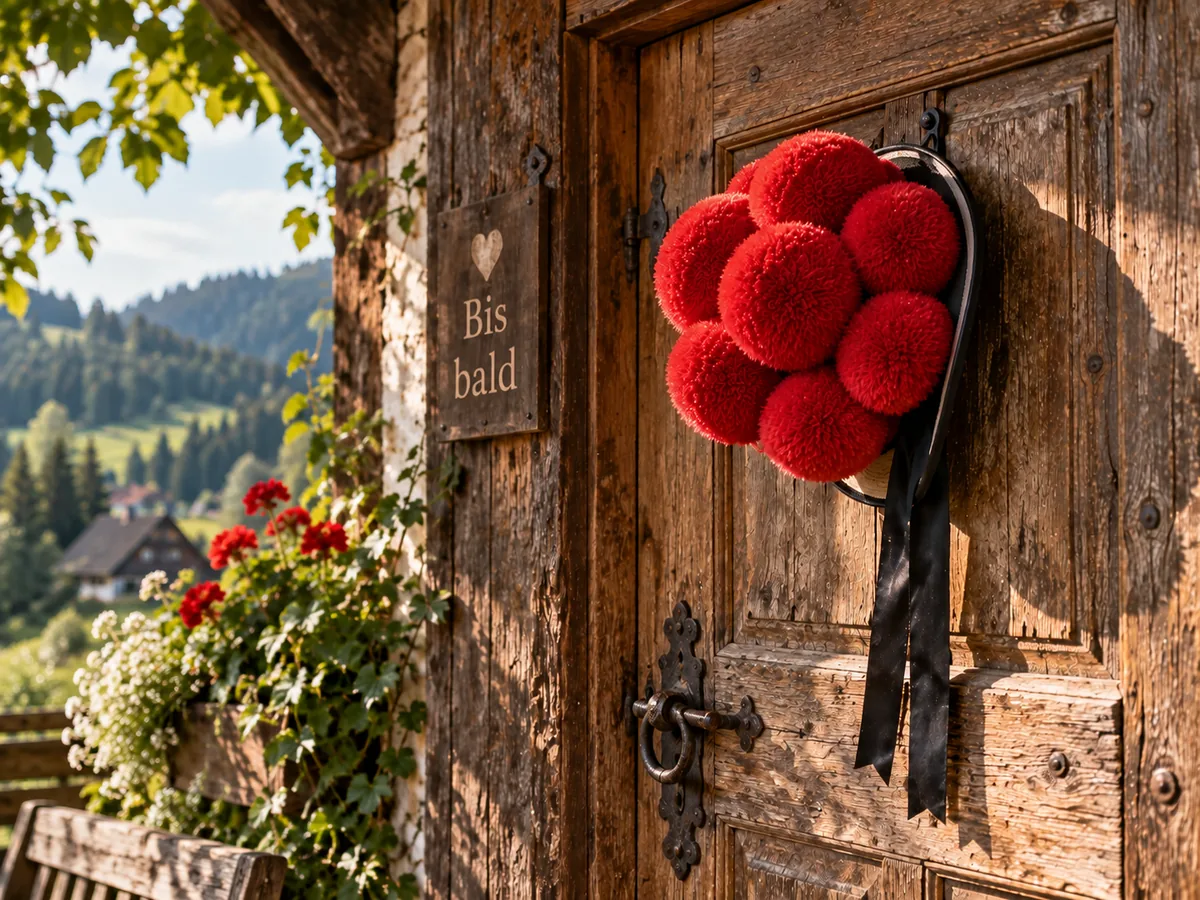
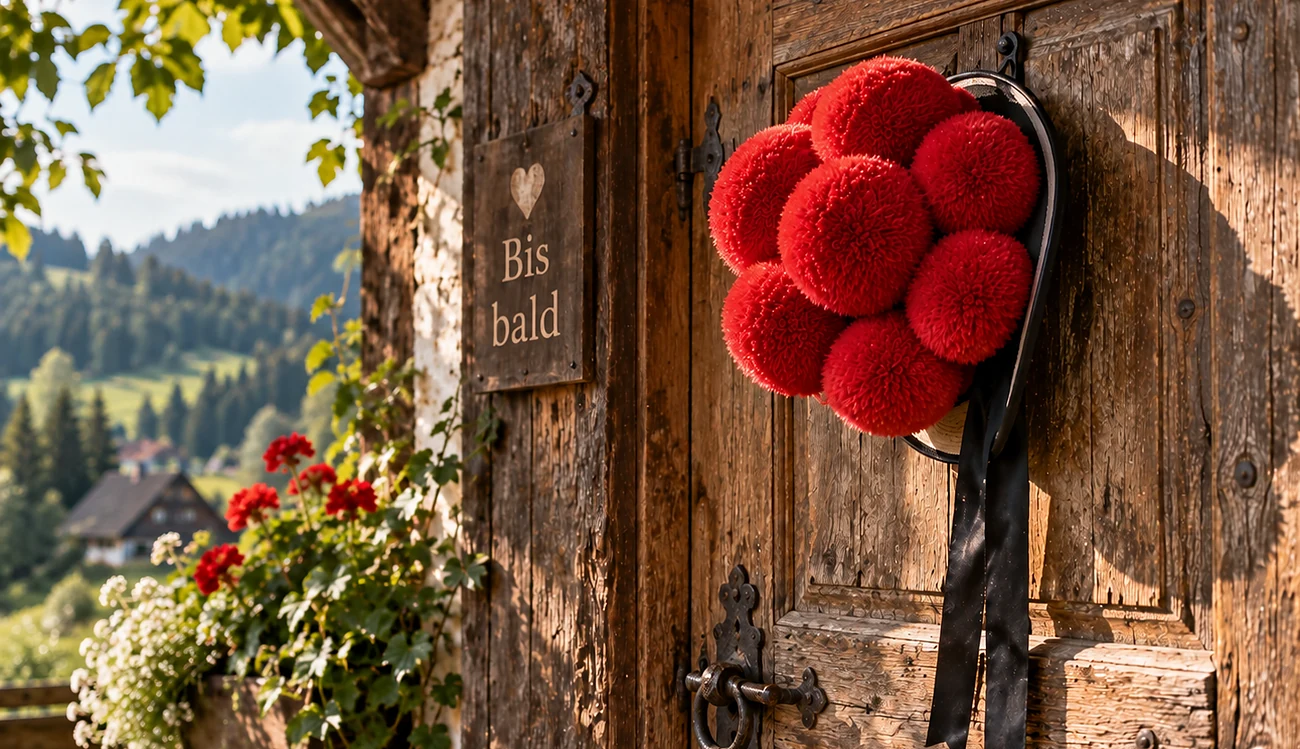
Add files via upload

diff --git a/alltag-praxisurlaub-september.html b/alltag-praxisurlaub-september.html
@@ -163,7 +163,7 @@ a.pp:hover{color:#8F7440 !important}
 
     <p style="margin:0;font-size:16px;line-height:1.85;color:#4B5875">Streng genommen stammt der Bollenhut nicht aus Bonndorf, sondern aus einigen Orten rund um Gutach. Trotzdem ist er l&auml;ngst zu einem der bekanntesten Symbole des Schwarzwalds geworden. F&uuml;r unsere kleine Pause haben wir ihn uns deshalb ausgeliehen und an die T&uuml;r geh&auml;ngt. Und das Schild daneben sagt eigentlich schon alles: Bis bald.</p>
 
-    <div style="position:relative;width:100%;height:0;border-radius:14px;overflow:hidden;box-shadow:0 12px 30px -12px rgba(30,45,77,.28);padding-top:75%"><img src="assets/urlaub-tuer.webp" alt="Bollenhut an einer alten Holzt&uuml;r, daneben ein Schild mit der Aufschrift Bis bald" style="position:absolute;top:0;left:0;width:100%;height:100%;object-fit:cover;display:block"></div>
+    <div style="position:relative;width:100%;height:0;border-radius:14px;overflow:hidden;box-shadow:0 12px 30px -12px rgba(30,45,77,.28);padding-top:57.6%"><img src="assets/urlaub-tuer.webp" alt="Bollenhut an einer alten Holzt&uuml;r, daneben ein Schild mit der Aufschrift Bis bald" style="position:absolute;top:0;left:0;width:100%;height:100%;object-fit:cover;display:block"></div>
 
     <p style="margin:0;font-size:16px;line-height:1.85;color:#4B5875">Wir w&uuml;nschen Ihnen einen sch&ouml;nen September, eine gute Zeit und bleiben Sie gesund. Ab dem 24. September sind wir wieder f&uuml;r Sie da.</p>
 
